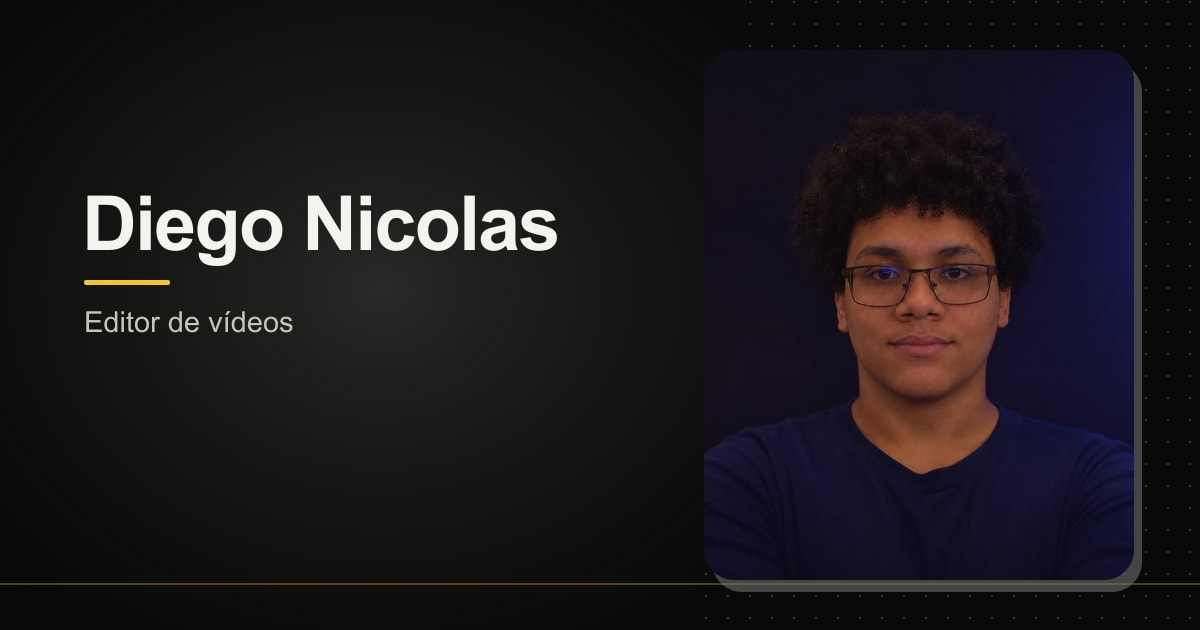
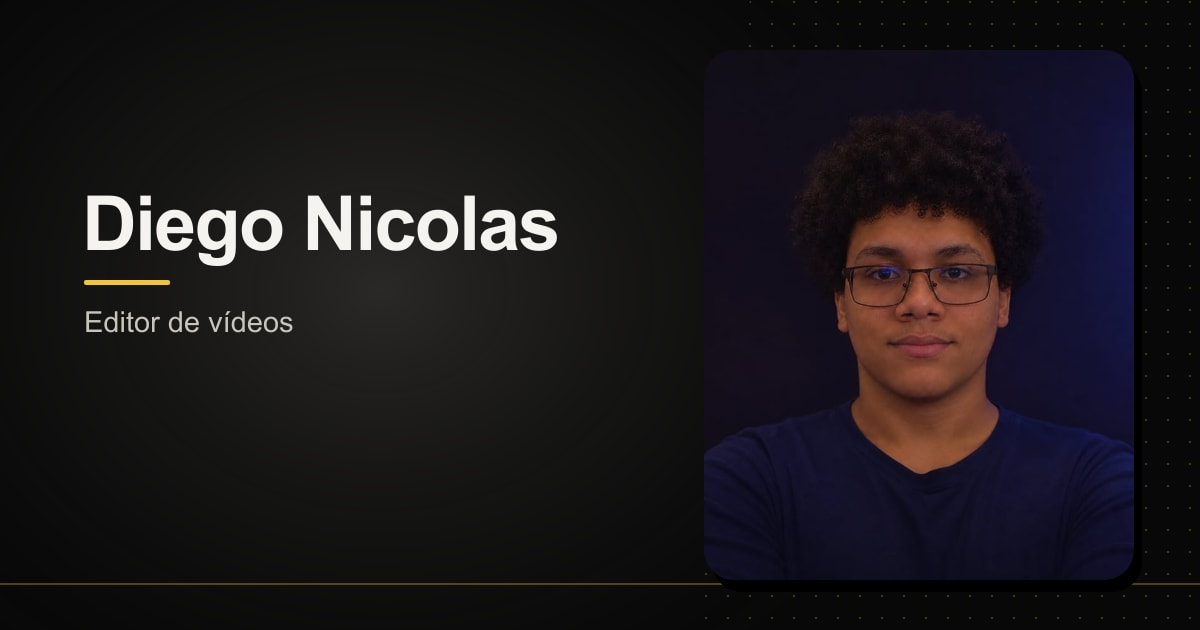
Aplica desfoque à sombra preta da foto

Changed region(s): [[0.5858, 0.1206, 0.9558, 0.9651]]

diff --git a/index.html b/index.html
@@ -41,7 +41,7 @@
   <meta property="og:type" content="website" />
   <meta property="og:url" content="https://DiegoNicolasEditor.github.io/Diego/" />
   <meta property="og:site_name" content="Diego Nicolas" />
-  <meta property="og:image" content="https://DiegoNicolasEditor.github.io/Diego/img/social/og-image.jpg?v=14" />
+  <meta property="og:image" content="https://DiegoNicolasEditor.github.io/Diego/img/social/og-image.jpg?v=15" />
   <meta property="og:image:alt" content="Diego Nicolas, editor de vídeos para YouTube, TikTok, Shorts e Reels" />
   <meta property="og:image:type" content="image/jpeg" />
   <meta property="og:image:width" content="1200" />
@@ -52,7 +52,7 @@
   <meta name="twitter:card" content="summary_large_image" />
   <meta name="twitter:title" content="Diego Nicolas | Edição de vídeo" />
   <meta name="twitter:description" content="Edição de vídeos para YouTube, TikTok, Shorts e Reels. Veja meu trabalho." />
-  <meta name="twitter:image" content="https://DiegoNicolasEditor.github.io/Diego/img/social/og-image.jpg?v=14" />
+  <meta name="twitter:image" content="https://DiegoNicolasEditor.github.io/Diego/img/social/og-image.jpg?v=15" />
 
   <title>Diego Nicolas | Edição de vídeo</title>
 
